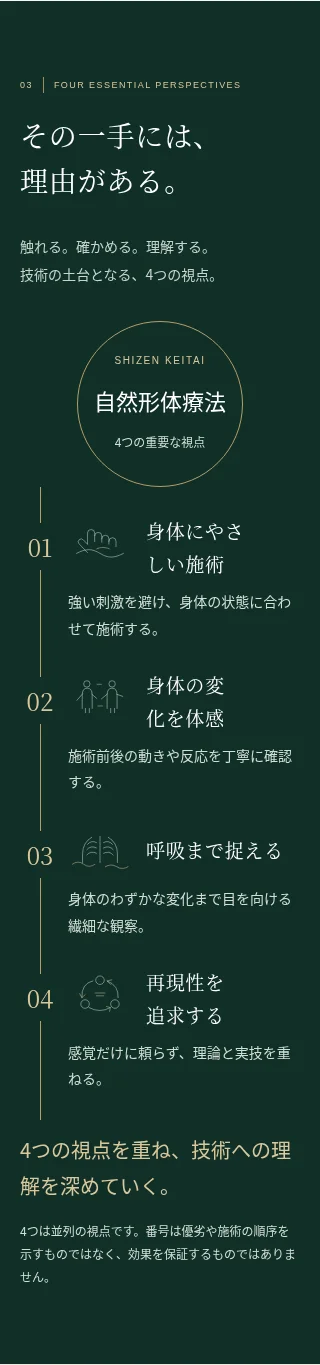
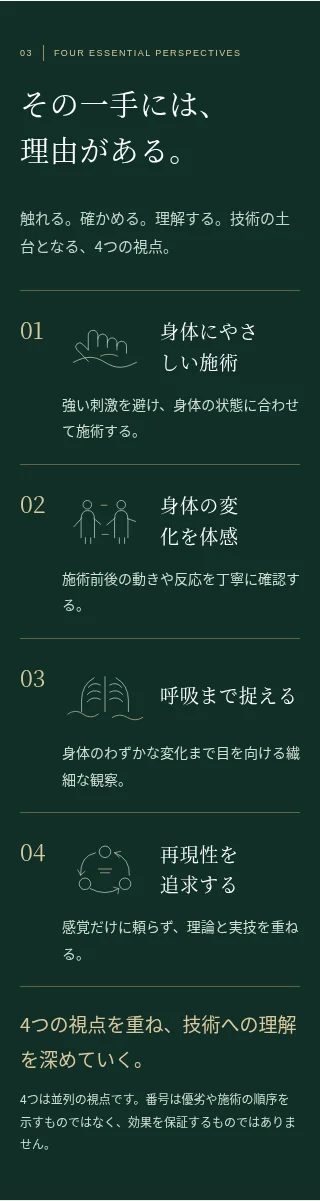
Compact essential perspectives into an integrated two by two layout

diff --git a/app/essential-perspectives.css b/app/essential-perspectives.css
@@ -1,39 +1,36 @@
-.homepage-quality #features .section-intro-row{display:block;max-width:800px}
-.homepage-quality #features .section-side-copy{margin-top:24px;max-width:40em}
-.essential-system{position:relative;margin-top:48px;min-height:660px}
-.essential-connections{position:absolute;inset:0;width:100%;height:100%;stroke:#b79c66;stroke-width:1;opacity:.55;pointer-events:none}
-.essential-connections ellipse{stroke-dasharray:3 8;opacity:.65}
-.essential-center{position:absolute;left:50%;top:50%;transform:translate(-50%,-50%);width:230px;height:230px;border:1px solid #b79c66;border-radius:50%;background:#102f28;display:flex;flex-direction:column;align-items:center;justify-content:center;color:#fff;z-index:1}
-.essential-center span{font:10px Arial,sans-serif;letter-spacing:.16em;color:#dbc89a}
-.essential-center p{font-size:27px;margin:20px 0 12px}
-.essential-center small{font-size:12px;color:#d3dfd2}
-.homepage-quality #features .essential-perspectives{display:grid;grid-template-columns:1fr 280px 1fr;grid-template-rows:1fr 1fr;gap:180px 24px;margin:0;padding:0;list-style:none}
-.homepage-quality #features .essential-perspectives li{position:relative;background:#102f28;border:0;box-shadow:none;padding:20px 24px;min-width:0;display:grid;grid-template-columns:42px 1fr;align-content:start;gap:8px 16px}
-.homepage-quality #features .essential-perspectives li:nth-child(1){grid-column:1;grid-row:1}
-.homepage-quality #features .essential-perspectives li:nth-child(2){grid-column:3;grid-row:1}
-.homepage-quality #features .essential-perspectives li:nth-child(3){grid-column:1;grid-row:2}
-.homepage-quality #features .essential-perspectives li:nth-child(4){grid-column:3;grid-row:2}
-.homepage-quality #features .essential-perspectives .essential-number{grid-column:1;font:28px Georgia,serif;color:#dbc89a;position:static}
-.homepage-quality #features .essential-perspectives .essential-illustration{grid-column:2;width:150px;height:94px;stroke:#dbe5d8;stroke-width:1.35;stroke-linecap:round;stroke-linejoin:round;margin:0}
-.homepage-quality #features .essential-perspectives .diagram-accent{stroke:#dbc89a}
-.homepage-quality #features .essential-perspectives h3{grid-column:1/-1;font-size:23px;margin:12px 0 4px;color:#fff}
-.homepage-quality #features .essential-perspectives p{grid-column:1/-1;font-size:14px;line-height:1.9;color:#d3dfd2;margin:0}
-.essential-message{text-align:center;color:#dbc89a;font-size:22px;line-height:1.8;margin:44px 0 20px}
-.essential-note{text-align:center;color:#d3dfd2;font-size:12px;line-height:1.9}
-@media(min-width:701px) and (max-width:1000px){.homepage-quality #features .essential-perspectives{grid-template-columns:1fr 160px 1fr;gap:150px 8px}.essential-center{width:170px;height:170px}.essential-center p{font-size:21px}.homepage-quality #features .essential-perspectives li{padding:16px 8px}.homepage-quality #features .essential-perspectives h3{font-size:19px}.essential-system{min-height:600px}}
-@media(max-width:700px){
- .essential-system{margin-top:28px;min-height:0}
- .essential-connections{display:none}
- .essential-center{position:relative;left:auto;top:auto;transform:none;width:166px;height:166px;margin:0 auto 28px}
- .essential-center p{font-size:22px;margin-block:14px 10px}
- .homepage-quality #features .essential-perspectives{display:block;position:relative}
- .homepage-quality #features .essential-perspectives::before{content:"";position:absolute;top:-28px;bottom:0;left:20px;border-left:1px solid #b79c66}
- .homepage-quality #features .essential-perspectives li{background:transparent;padding:0 0 28px 48px;display:grid;grid-template-columns:64px minmax(0,1fr);gap:8px 14px}
- .homepage-quality #features .essential-perspectives .essential-number{position:absolute;left:0;top:8px;width:40px;background:#102f28;text-align:center;font-size:24px;padding:6px 0}
- .homepage-quality #features .essential-perspectives .essential-illustration{grid-column:1;width:64px;height:54px;grid-row:1}
- .homepage-quality #features .essential-perspectives h3{grid-column:2;grid-row:1;align-self:center;margin:0;font-size:19px;line-height:1.7}
- .homepage-quality #features .essential-perspectives p{grid-column:1/-1;font-size:14px}
- .essential-message{text-align:left;font-size:20px;margin:12px 0 16px}
- .essential-note{text-align:left}
+/* Compact integrated editorial grid; no cards or central diagram. */
+.homepage-quality #features { padding-block:64px; }
+.homepage-quality #features .section-intro-row { display:block; max-width:100%; }
+.homepage-quality #features .section-heading h2 { font-size:clamp(30px,3.2vw,44px);line-height:1.5;margin-block:16px; }
+.homepage-quality #features .section-heading h2 br { display:none; }
+.homepage-quality #features .section-side-copy { margin-top:16px;max-width:48em;font-size:15px;line-height:1.9; }
+.homepage-quality #features .section-side-copy br { display:none; }
+.essential-system { margin-top:32px; }
+.homepage-quality #features .essential-perspectives { display:grid;grid-template-columns:repeat(2,minmax(0,1fr));gap:0 40px;list-style:none;margin:0;padding:0;border-top:1px solid #b79c6680; }
+.homepage-quality #features .essential-perspectives li { min-width:0;display:grid;grid-template-columns:42px 140px minmax(0,1fr);grid-template-rows:auto auto;gap:6px 18px;align-content:center;padding:24px 0;border-bottom:1px solid #b79c6680;position:relative; }
+.homepage-quality #features .essential-number { grid-column:1;grid-row:1 / span 2;align-self:center;font:27px/1.2 Georgia,serif;color:#dbc89a; }
+.homepage-quality #features .essential-illustration { grid-column:2;grid-row:1 / span 2;align-self:center;width:140px;height:100px;stroke:#dbe5d8;stroke-width:1.35;stroke-linecap:round;stroke-linejoin:round;overflow:visible; }
+.homepage-quality #features .diagram-accent { stroke:#dbc89a; }
+.homepage-quality #features .essential-perspectives h3 { grid-column:3;grid-row:1;align-self:end;margin:0;font-size:22px;line-height:1.6;color:#fff; }
+.homepage-quality #features .essential-perspectives p { grid-column:3;grid-row:2;margin:0;font-size:14px;line-height:1.9;color:#d3dfd2; }
+.essential-message { color:#dbc89a;font-size:21px;line-height:1.8;margin:24px 0 12px; }
+.essential-note { color:#d3dfd2;font-size:12px;line-height:1.9; }
+@media(min-width:701px) and (max-width:1000px){
+ .homepage-quality #features .essential-perspectives{gap:0 28px}
+ .homepage-quality #features .essential-perspectives li{grid-template-columns:30px 90px minmax(0,1fr);gap:8px 12px}
+ .homepage-quality #features .essential-illustration{width:90px;height:90px}
+ .homepage-quality #features .essential-perspectives h3{font-size:19px}
 }
-@media(max-width:700px){.homepage-quality #features .essential-perspectives .essential-number{grid-column:auto;grid-row:auto;left:0;right:auto;}.homepage-quality #features .essential-perspectives .essential-illustration{overflow:visible;}}
+@media(max-width:700px){
+ .homepage-quality #features{padding-block:44px}
+ .homepage-quality #features .section-heading h2{font-size:29px;line-height:1.6}
+ .homepage-quality #features .section-heading h2 br{display:block}
+ .essential-system{margin-top:24px}
+ .homepage-quality #features .essential-perspectives{grid-template-columns:1fr;gap:0}
+ .homepage-quality #features .essential-perspectives li{grid-template-columns:30px 86px minmax(0,1fr);gap:8px 12px;padding:20px 0}
+ .homepage-quality #features .essential-number{font-size:23px;align-self:start;padding-top:5px}
+ .homepage-quality #features .essential-illustration{width:86px;height:72px;grid-row:1;align-self:center}
+ .homepage-quality #features .essential-perspectives h3{font-size:19px;align-self:center}
+ .homepage-quality #features .essential-perspectives p{grid-column:2 / -1;grid-row:2;font-size:14px}
+ .essential-message{font-size:19px;margin-top:20px}
+}

diff --git a/app/page.tsx b/app/page.tsx
@@ -247,8 +247,6 @@ export default function Home() {
               </p>
             </div>
             <div className="essential-system">
-              <svg className="essential-connections" viewBox="0 0 1000 600" preserveAspectRatio="none" fill="none" aria-hidden="true" focusable="false"><ellipse cx="500" cy="300" rx="270" ry="230"/><path d="M500 300 180 100M500 300 820 100M500 300 180 500M500 300 820 500"/></svg>
-              <div className="essential-center"><span>SHIZEN KEITAI</span><p>自然形体療法</p><small>4つの重要な視点</small></div>
             <ol className="essential-perspectives">
               {features.map(([title, text], i) => (
                 <li key={title}>
